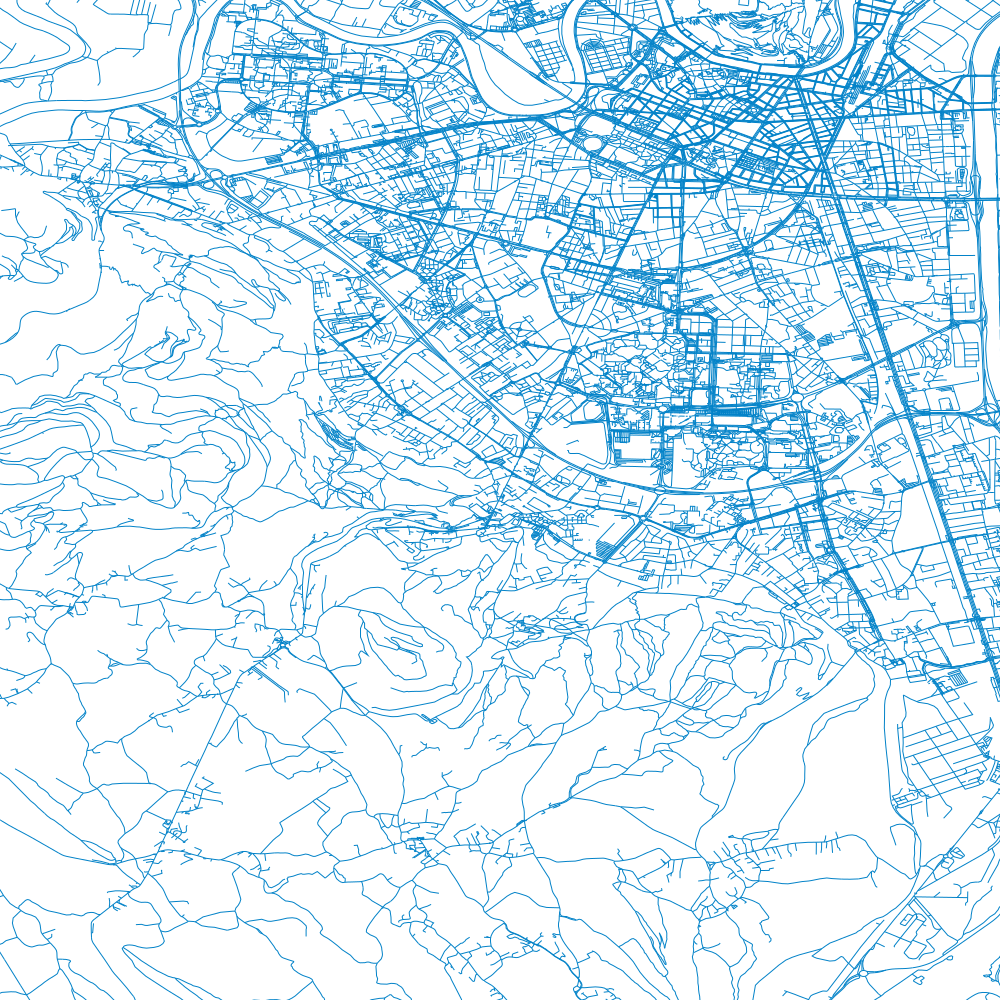
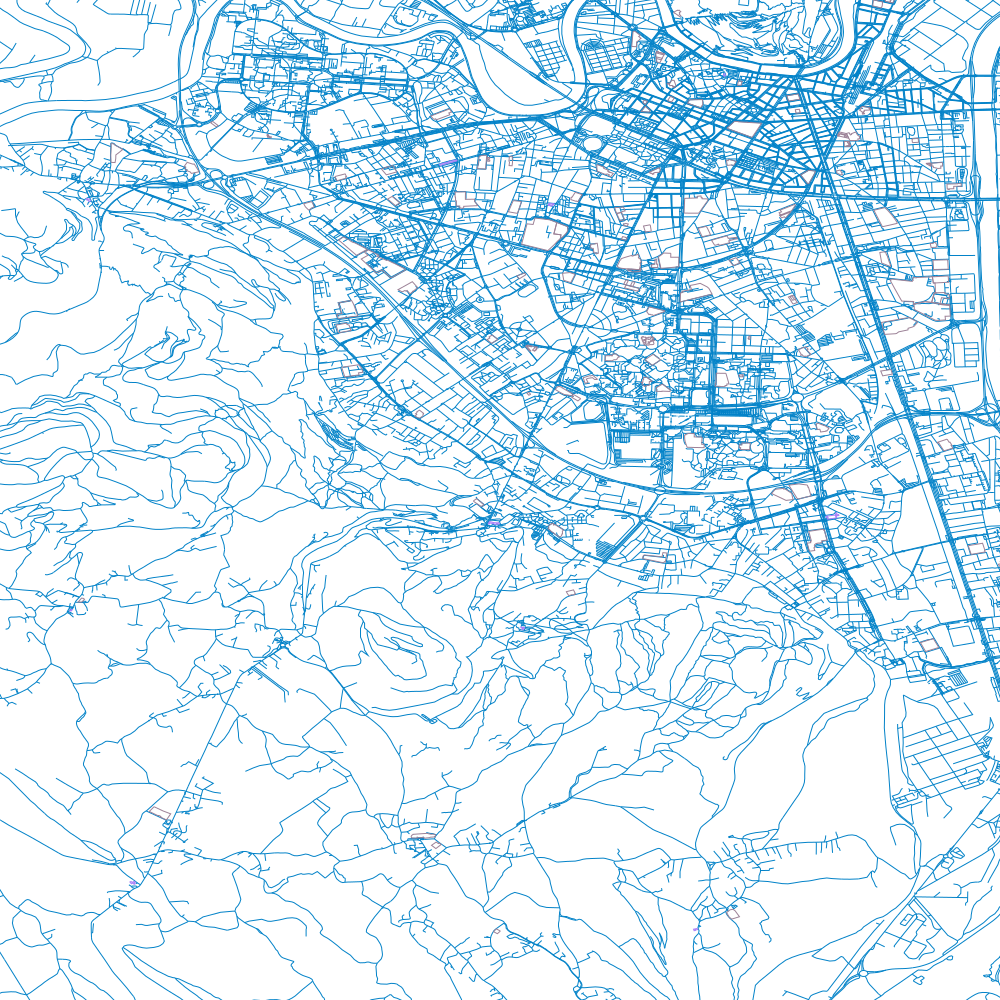
Implemented question 15

diff --git a/server/q11.py b/server/q11.py
@@ -2,10 +2,11 @@ import database as db
 from sys import argv
 import re
 import drawer
+import random
 
 ########
 #
-# How to execute: python3 q11.py 5.7 5.8 45.1 45.2 1000 1000
+# How to execute: python3 q11.py 5.7 5.8 45.1 45.2 1000 1000 school,townhall
 #
 ########
 
@@ -40,6 +41,7 @@ def execute_query():
         end_y = float(argv[4])
         width = int(argv[5])
         height = int(argv[6])
+        layers = argv[7].split(",")
 
         # Instantiating the drawer helper
         image_drawer = drawer.Image(width, height)
@@ -64,6 +66,30 @@ def execute_query():
         for row in cursor:
             point_list = parse_linestring(row[0], init_x, end_x, init_y, end_y, width, height)
             image_drawer.draw_linestring(point_list, (2/255, 130/255, 200/255, 255/255))
+
+
+        for element in layers:
+            cursor = db.execute_query(f"""SELECT ST_AsText(linestring)
+                                FROM ways 
+                                WHERE ways.tags->'amenity' = '{element}'
+                                    AND NOT ST_IsEmpty(linestring) 
+                                    AND ST_Intersects(
+                                        ST_SetSRID(linestring, 3857),
+                                        ST_SetSRID(
+                                            ST_MakeBox2D(
+                                                ST_Point({init_x}, {init_y}),
+                                                ST_Point({end_x}, {end_y})
+                                            ),
+                                            3857
+                                        )
+                                    );"""
+            )
+            
+            stroke_color = (random.randint(0, 255)/255, 130/255, random.randint(0,255)/255, 255/255)
+            # For every linestring received, we parse the coordinates and draw them on the final image. 
+            for row in cursor:
+                point_list = parse_linestring(row[0], init_x, end_x, init_y, end_y, width, height)
+                image_drawer.draw_linestring(point_list, stroke_color)
         
         image_drawer.save("map.png")
 

diff --git a/server/WMSserver.py b/server/WMSserver.py
@@ -14,7 +14,7 @@ class WMSHandler(BaseHTTPRequestHandler):
         self.send_header("Content-type", "text/html")
         self.end_headers()
 
-    # Example of get request: http://localhost:4242/wms?request=GetMap&layer=nom&height=1000&width=1000&srs=EPSG:3857&bbox=5.7,5.8,45.1,45.2
+    # Example of get request: http://localhost:4242/wms?request=GetMap&layer=school,townhall&height=1000&width=1000&srs=EPSG:3857&bbox=5.7,5.8,45.1,45.2
     def do_GET(self):
 
         if self.path.startswith("/wms"):
@@ -48,10 +48,11 @@ class WMSHandler(BaseHTTPRequestHandler):
                 end_x = float(bbox_list[1])
                 init_y = float(bbox_list[2])
                 end_y = float(bbox_list[3])
+                layers = params["layer"][0]
 
                 # Open question 11 Python file, sending parameters from get request
                 # How to execute: python3 q11.py 5.7 5.8 45.1 45.2 1000 1000
-                os.system(f'python3 q11.py {init_x} {end_x} {init_y} {end_y} {width} {height}')
+                os.system(f'python3 q11.py {init_x} {end_x} {init_y} {end_y} {width} {height} {layers}')
 
             except Exception as inst:
                 self.send_error(500, 'Erreur : %s' % inst)
